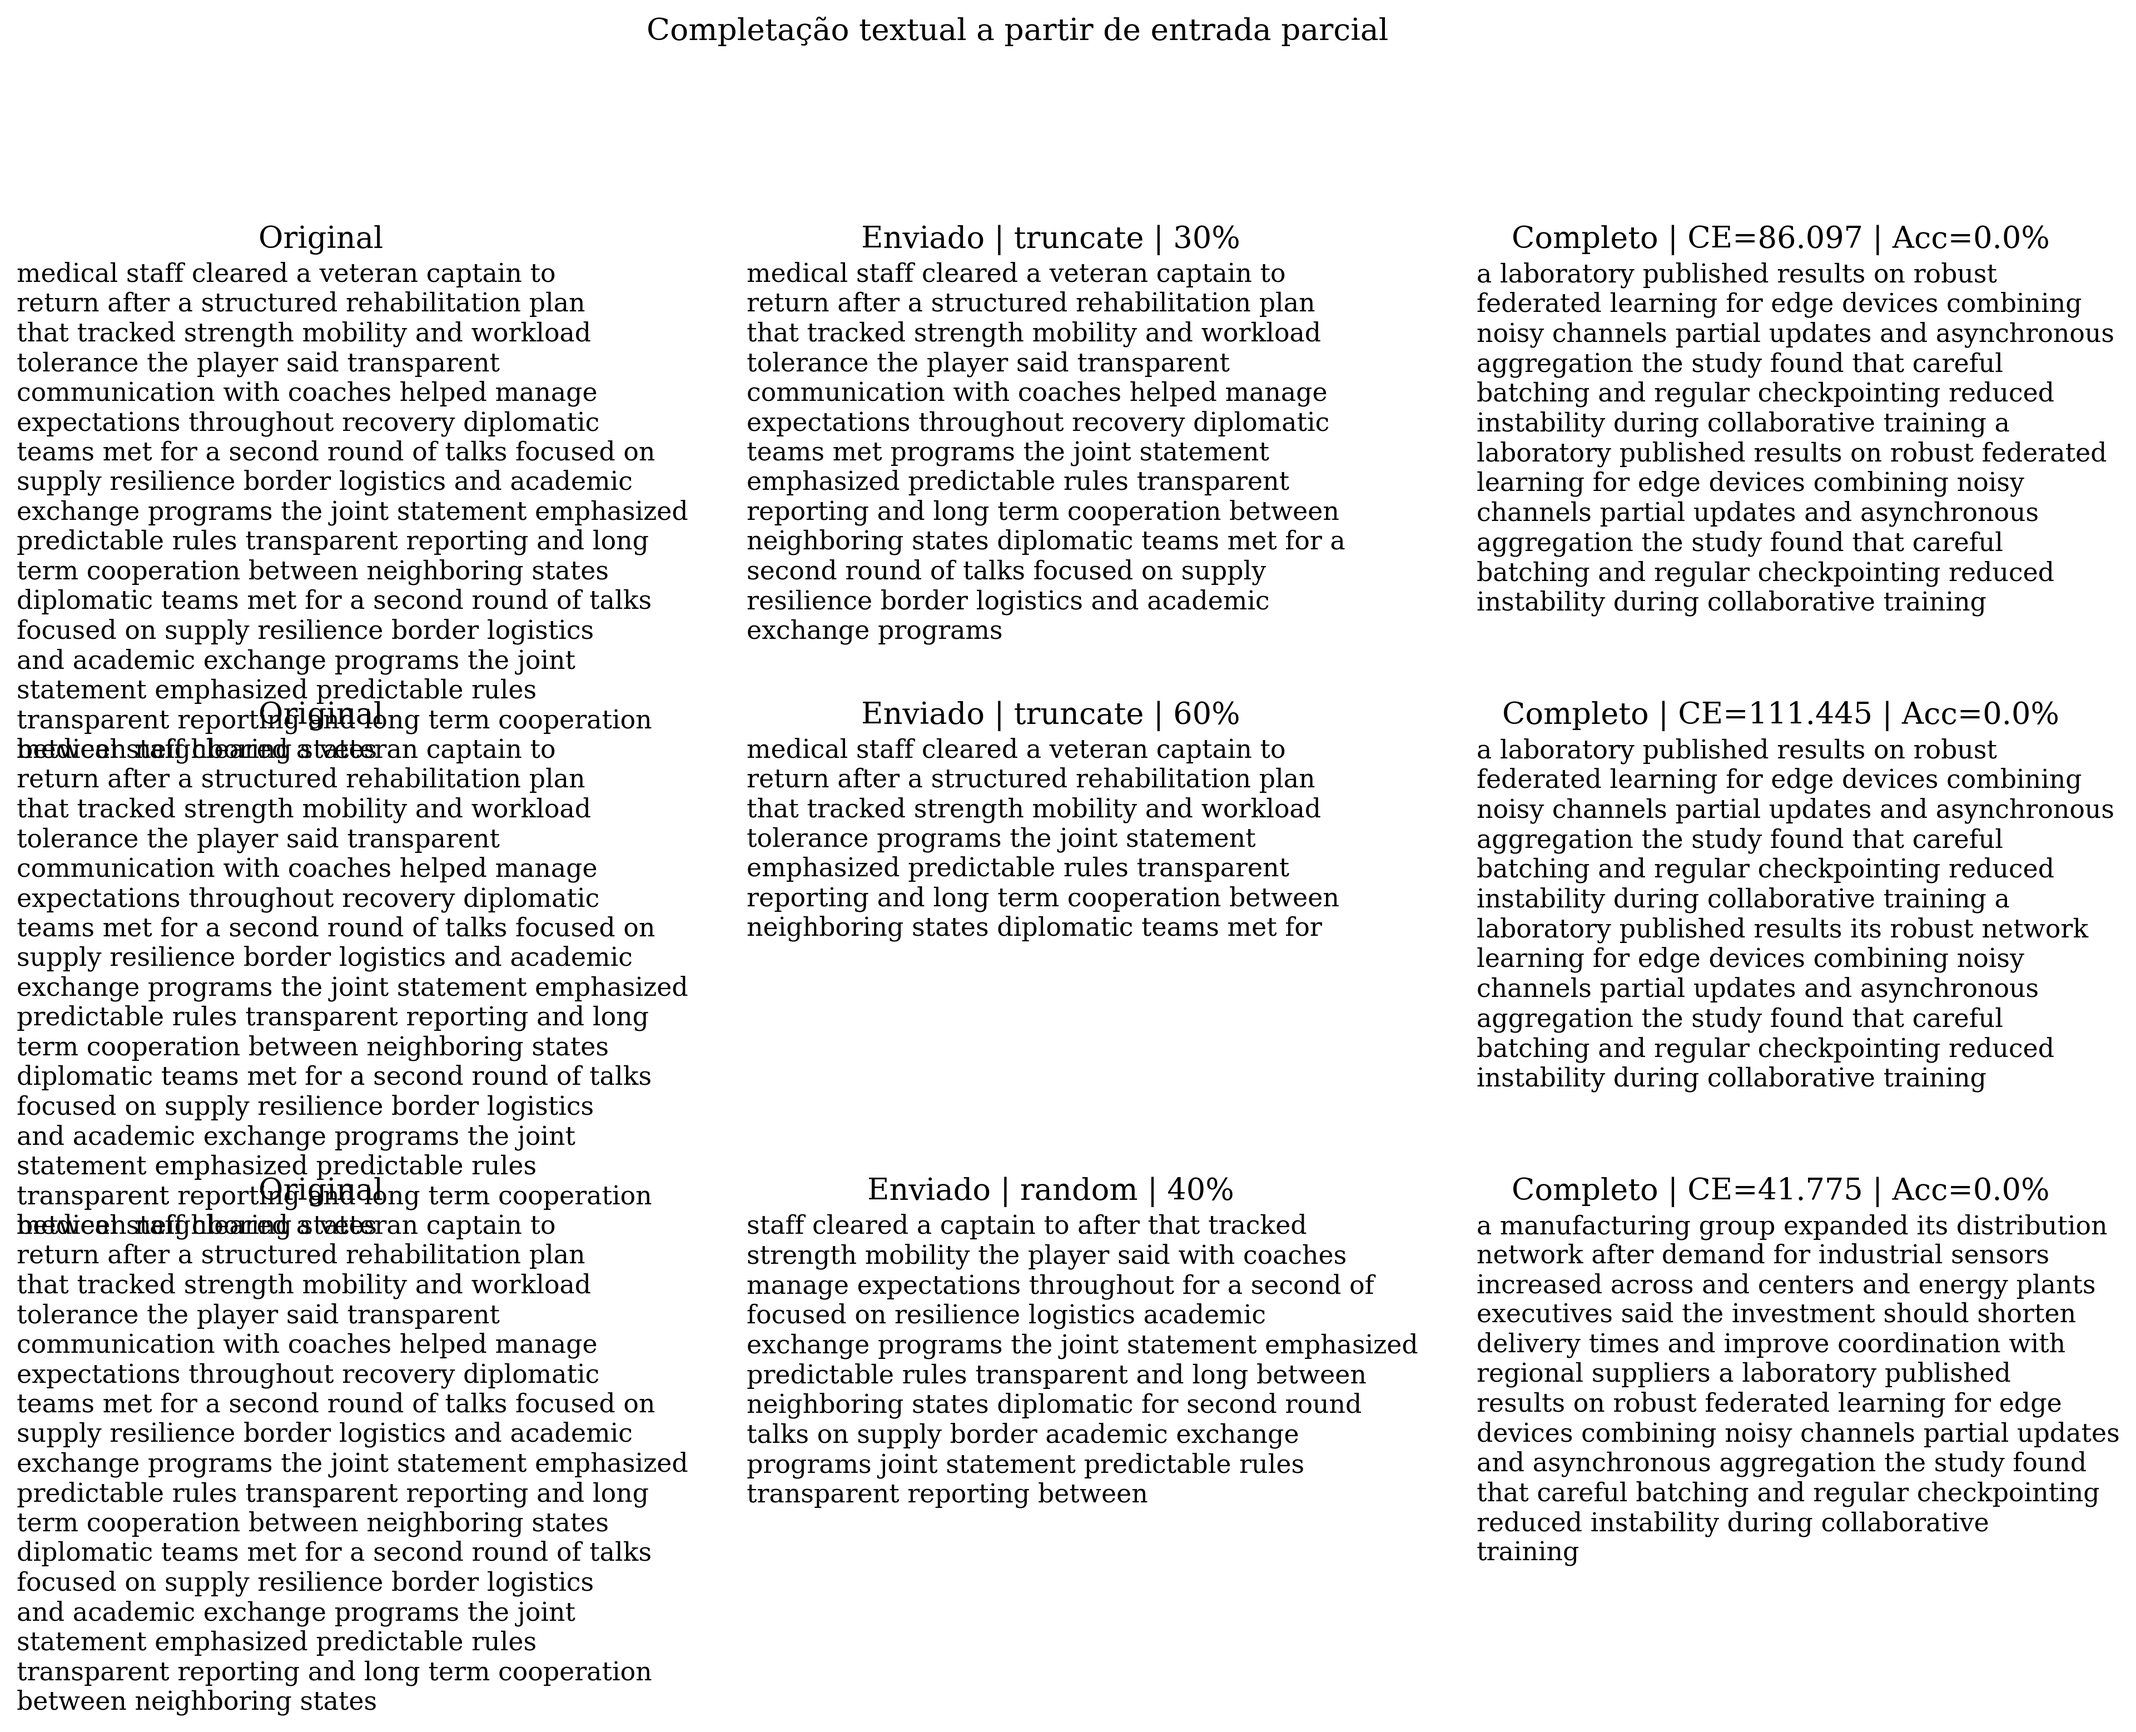
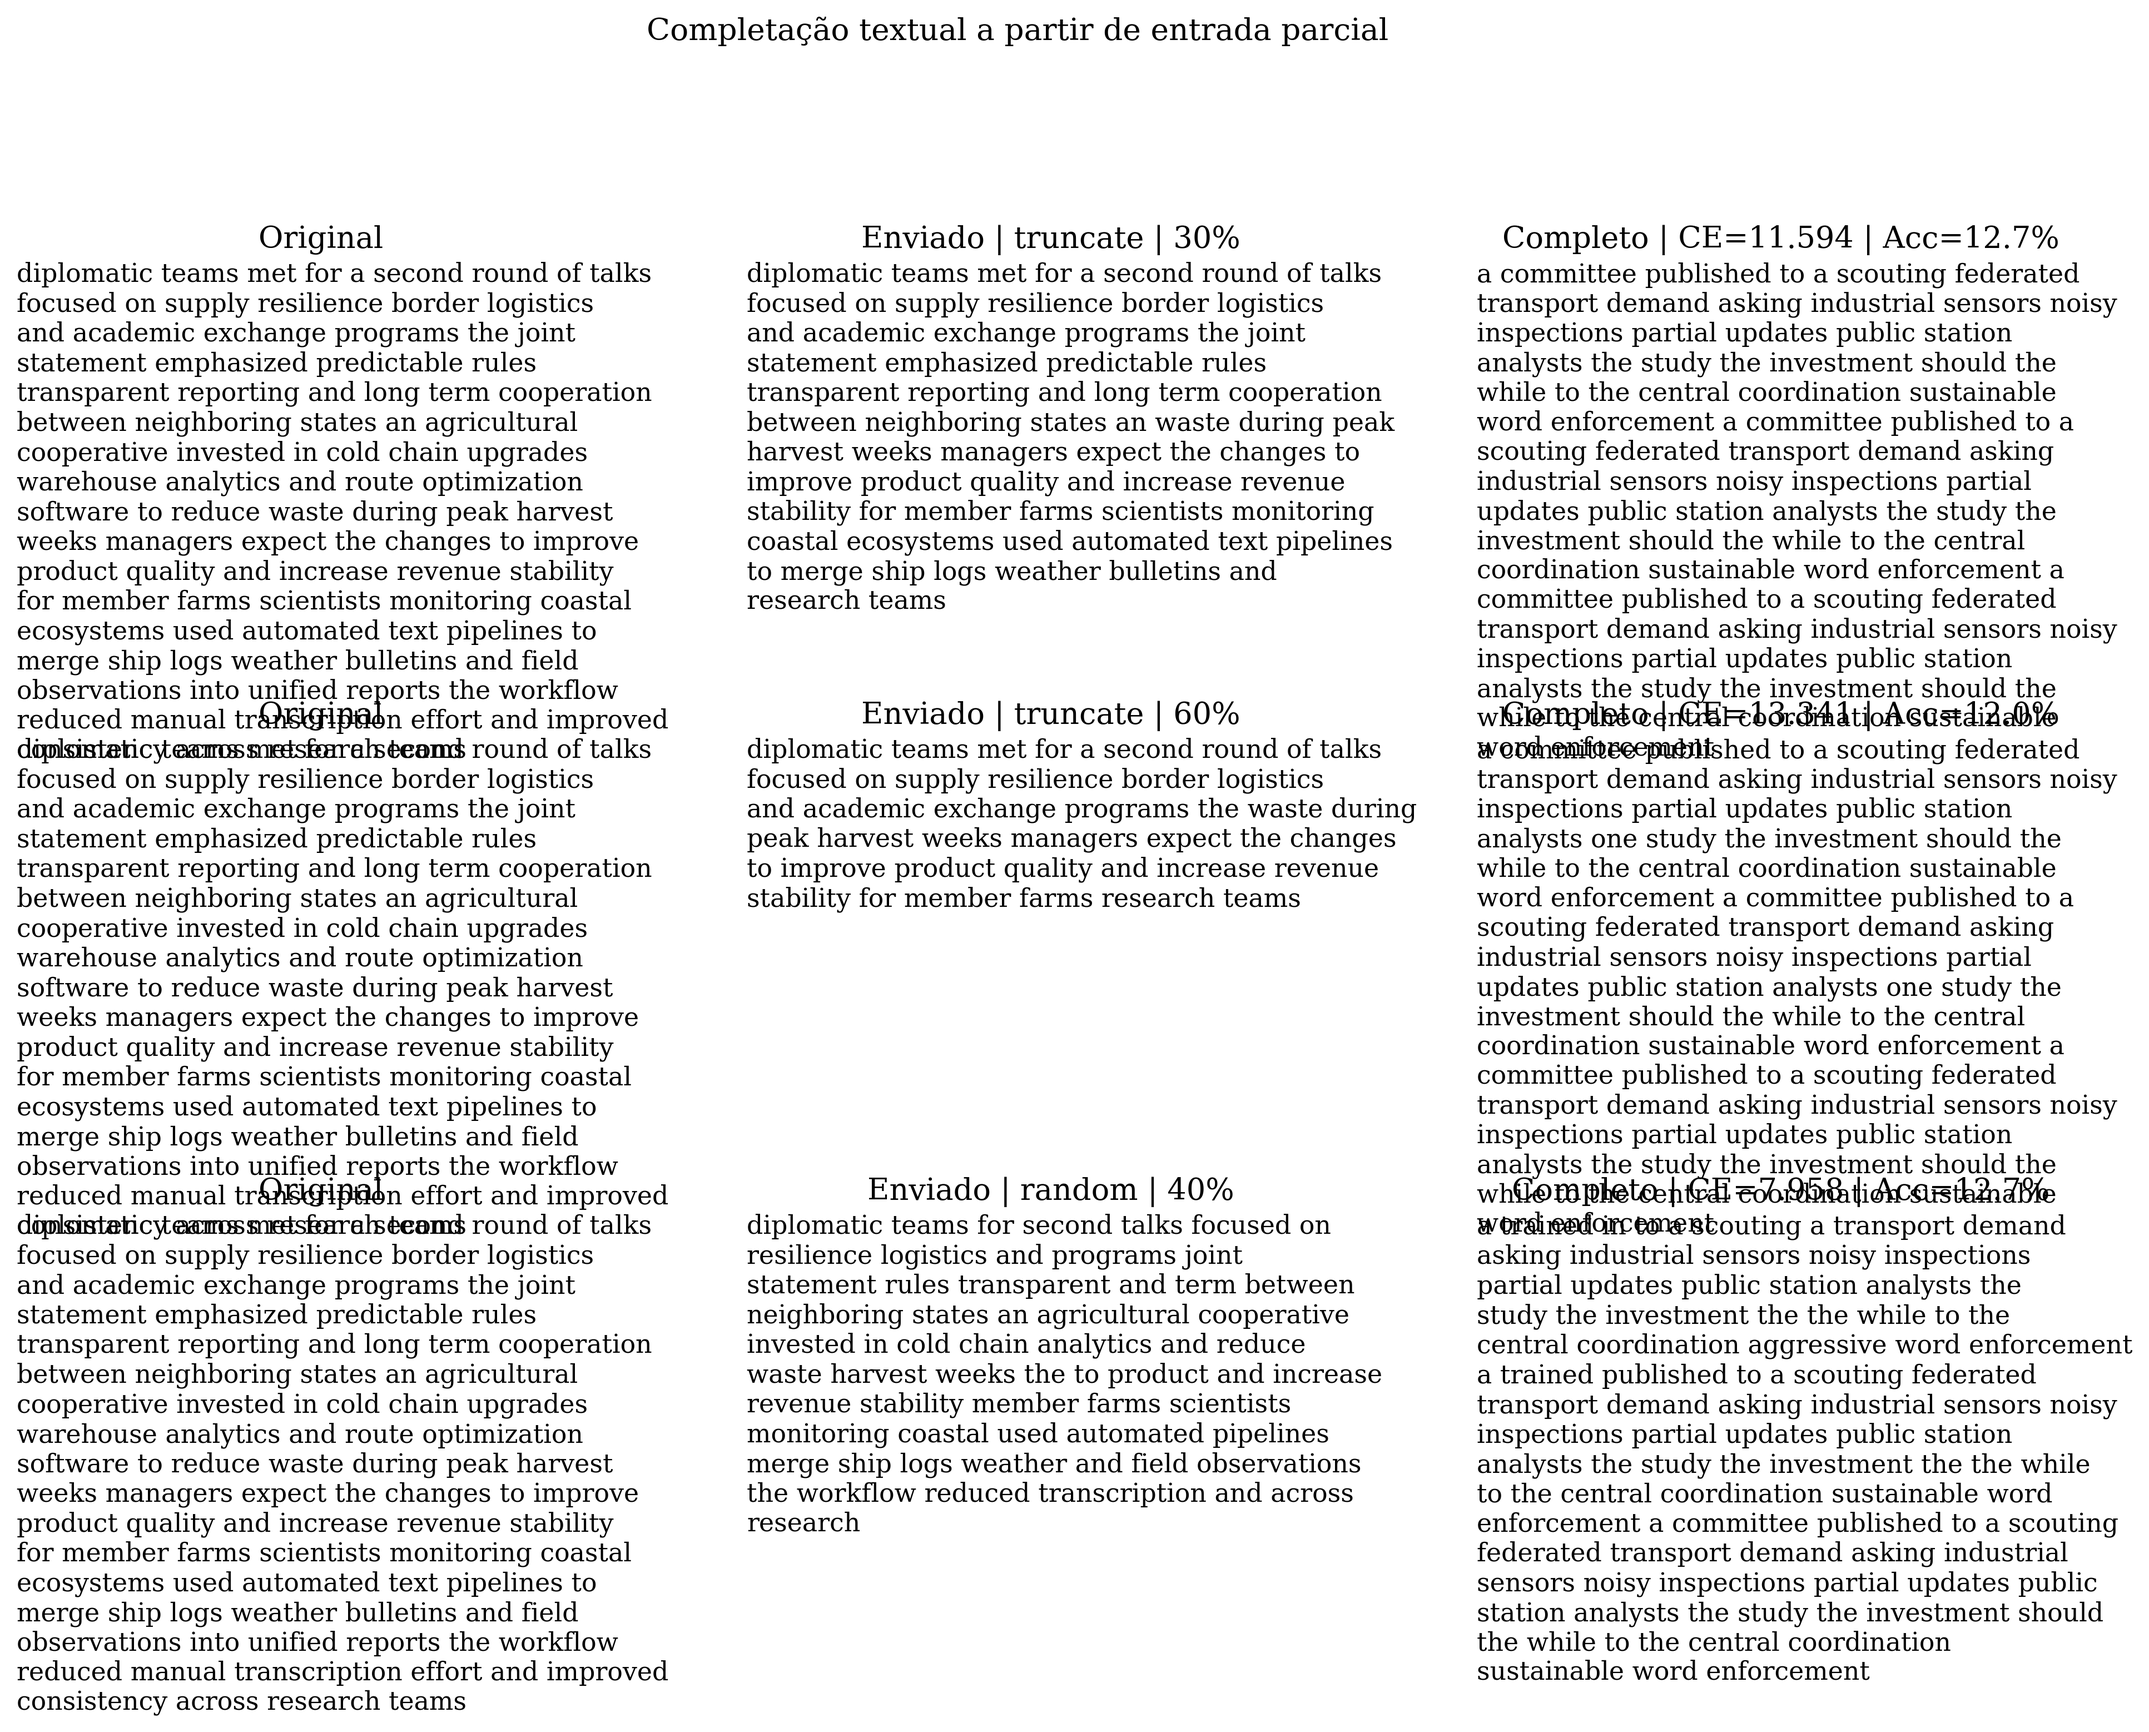
fig e tabs completes

diff --git a/paper/tables/tab_chaos_results.tex b/paper/tables/tab_chaos_results.tex
@@ -6,10 +6,10 @@
 \hline
 \textbf{Cenário} & \textbf{CE final} & \textbf{Accuracy final} & \textbf{Rodadas} & \textbf{Melhor CE} & \textbf{Melhor Acc.} \\
 \hline
-Normal & 8.4104 & 33.0 & 30 & 7.0913 & 35.0 \\
-Leve & 6.8222 & 33.5 & 30 & 6.5866 & 34.5 \\
-Moderado & 7.5016 & 34.0 & 30 & 6.4480 & 34.5 \\
-Severo & 6.8222 & 33.5 & 30 & 6.5866 & 34.5 \\
+Normal & 8.1767 & 32.5 & 30 & 6.7750 & 34.0 \\
+Leve & 6.3463 & 33.0 & 30 & 6.1597 & 36.0 \\
+Moderado & 10.4037 & 33.5 & 29 & 6.3393 & 34.5 \\
+Severo & 21.4692 & 32.5 & 30 & 9.8854 & 33.5 \\
 \hline
 \end{tabular}
 \end{table}

diff --git a/paper/tables/tab_completion.tex b/paper/tables/tab_completion.tex
@@ -6,9 +6,9 @@
 \hline
 \textbf{Estratégia} & \textbf{Máscara (\%)} & \textbf{CE Loss} & \textbf{Accuracy (\%)} \\
 \hline
-truncate & 30 & 86.0969 & 0.0 \\
-truncate & 60 & 111.4451 & 0.0 \\
-random & 40 & 41.7748 & 0.0 \\
+truncate & 30 & 11.5942 & 12.7 \\
+truncate & 60 & 13.3411 & 12.0 \\
+random & 40 & 7.9577 & 12.7 \\
 \hline
 \end{tabular}
 \end{table}

diff --git a/paper/tables/tab_reconstruction.tex b/paper/tables/tab_reconstruction.tex
@@ -6,9 +6,9 @@
 \hline
 \textbf{Documento} & \textbf{Chunks} & \textbf{CE Loss} & \textbf{Accuracy (\%)} \\
 \hline
-1 & 2 & 21.6409 & 4.0 \\
-2 & 3 & 15.2248 & 11.3 \\
-3 & 2 & 16.7248 & 0.0 \\
+1 & 3 & 7.6272 & 12.0 \\
+2 & 3 & 7.5126 & 12.0 \\
+3 & 2 & 8.6736 & 4.0 \\
 \hline
 \end{tabular}
 \end{table}
